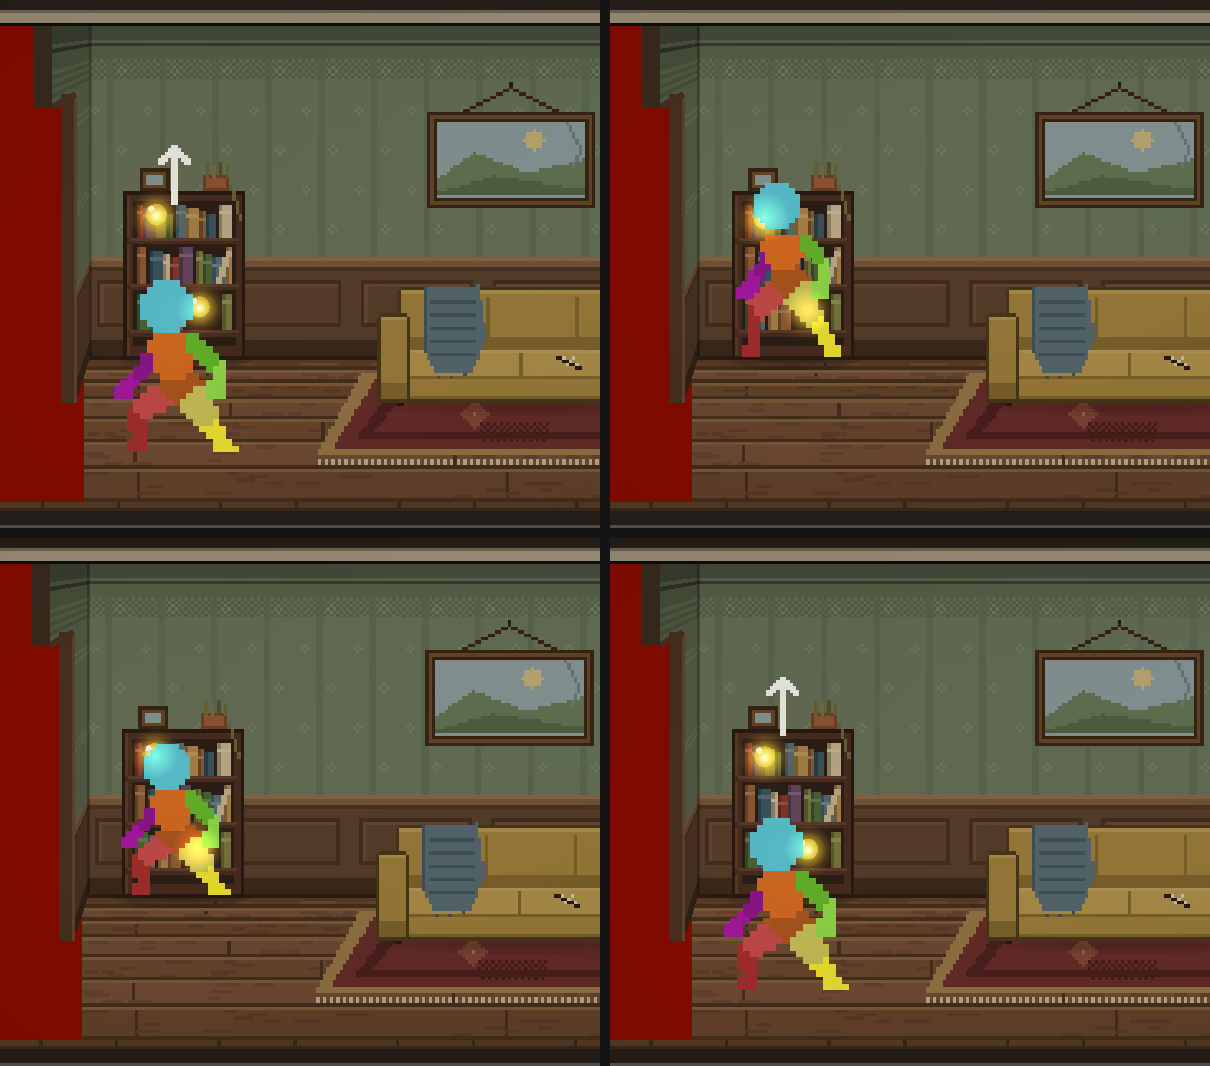
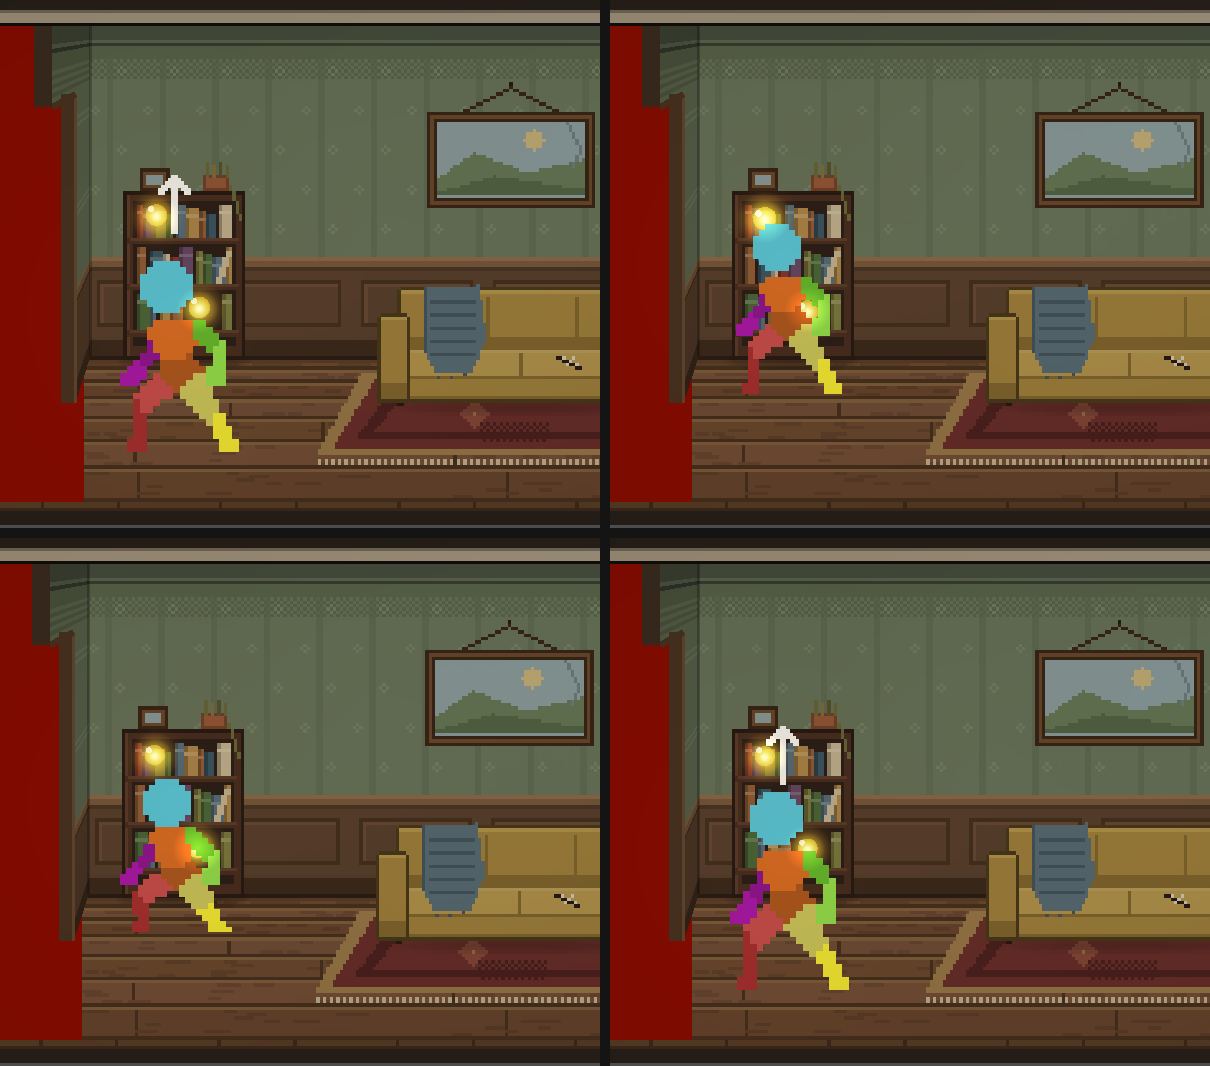
Back plane sits in FRONT of the furniture, not on it
The step-up put the player's feet at 328, level with the bookshelf's base (324) — they read as
standing on it. BACK_PLANE_RISE 25 -> 14: feet 339, ~15px in front of the base. The plane no longer
shares the balcony's depth, so the sprite scale now comes from the room perspective between the
two lines (s(339)/s(353) ~0.89) instead of reusing the balcony's 0.88. Docs + preview updated.

Claude-Session: https://claude.ai/code/session_018G5NCP3m9WbvqqpohXSrqQ

diff --git a/docs/art_reference/modules/README.md b/docs/art_reference/modules/README.md
@@ -72,8 +72,9 @@ docs/Y_PLANES.md §1.
    furniture with `metadata/back_plane = true` in its module scene (living room: both bookshelf
    nodes + the drawers). Per room, flagged nodes that SPAWNED this seed group into spots (within
    40px in one module → one spot, e.g. both bookshelf nodes). In scavenge mode near a spot a small ↑
-   shows; **W** (or clicking one of its nodes — it walks there first) steps the player UP to feet 328
-   (the balcony plane's depth, same 0.88 scale). Up there only that spot's nodes are in reach (Tab /
+   shows; **W** (or clicking one of its nodes — it walks there first) steps the player UP to feet 339
+   (~15px in front of the furniture's base — at 328 they looked like they stood ON it), scaled by the
+   room's perspective (≈0.89). Up there only that spot's nodes are in reach (Tab /
    wheel / click picks between them), no walking-line node is, and there's no left/right movement;
    the game never sends you down — **S** steps back (a click on open floor steps down first, then
    walks). Set-back nodes are NOT searchable from the walking line any more. A save made up there

diff --git a/CLAUDE.md b/CLAUDE.md
@@ -1349,7 +1349,7 @@ means no rendering — UI layout and art still need an in-editor look.
   now sit ON the furniture (names unchanged — loot is seeded by anchor name).
   **BACK (scavenge) PLANE** (`back_plane_spot.gd`, owner round 9): nodes flagged `metadata/back_plane`
   (bookshelf ×2, drawers) are reached by stepping UP to the furniture — W near it or clicking a node
-  (walks there first) → feet 328, scale 0.88 (the balcony plane's depth); only that spot's nodes are in
+  (walks there first) → feet 339 (in FRONT of the furniture's base 324, not on it), perspective scale ≈0.89; only that spot's nodes are in
   reach up there, no left/right, never auto-returns; S steps down (a click on open floor steps down
   then walks). From the walking line those nodes are out of reach. Saves record the walking line
   (`player.lane_position`). Enemies still reach you up there. Locked by `back_plane_test`.

diff --git a/docs/Y_PLANES.md b/docs/Y_PLANES.md
@@ -104,8 +104,9 @@ than everyone else; its sprite is dropped one art pixel (`offset.y = 1` × scale
 matching the other enemy rigs.
 
 BACK (scavenge) PLANE (`back_plane_spot.gd`): stepping up to set-back furniture puts the player's
-FEET at **328** (`room.ROOM_FEET_Y` 353 − `BACK_PLANE_RISE` 25; origin 295) — the same depth as the
-balcony plane, same 0.88 sprite scale. No x movement up there; saves record the walking line.
+FEET at **339** (`room.ROOM_FEET_Y` 353 − `BACK_PLANE_RISE` 14; origin 306) — ~15px IN FRONT of the
+furniture's base (324): at 328 the player read as standing ON the bookshelf's bottom (owner round 9).
+Sprite scale = the room perspective between the lines, s(339)/s(353) ≈ 0.89. No x movement up there; saves record the walking line.
 
 ---
 
